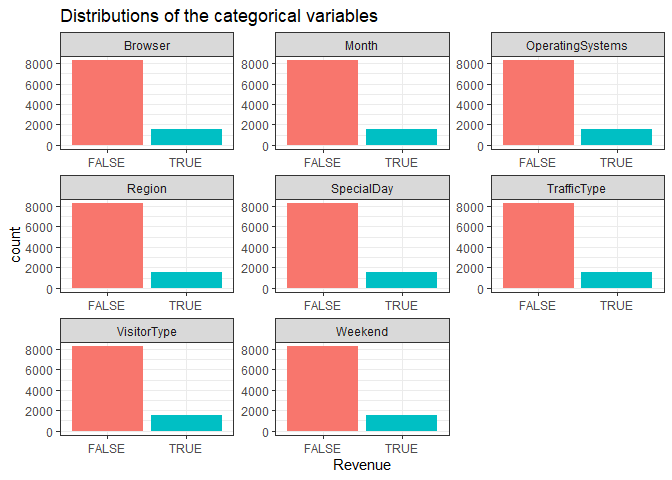
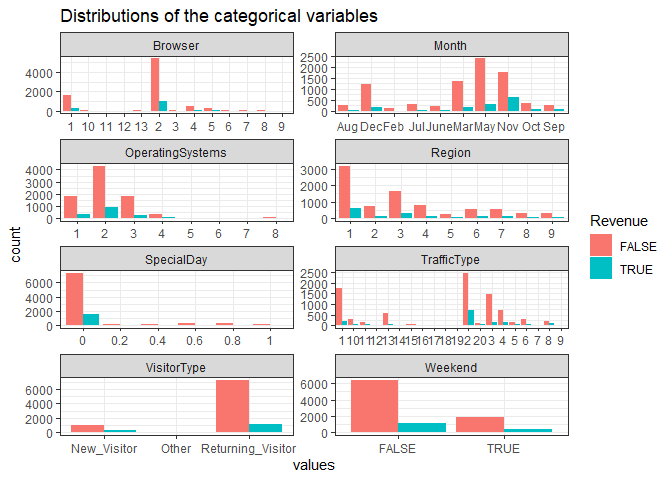
fixed the bug in the last plot and changed to show the code

diff --git a/src/EDA.md b/src/EDA.md
@@ -32,17 +32,77 @@ purchase.
 | 17    | `Weekend`                 | Weekend indicator                                                                                                                                                                    |
 | 18    | `Revenue`                 | Revenue transaction indicator                                                                                                                                                        |
 
+``` r
+X_train <- suppressMessages(read_csv("../data/X_train.csv"))
+y_train <- suppressMessages(read_csv("../data/y_train.csv"))
+
+mydata <- cbind(X_train, y_train)
+setDT(mydata)
+
+num_vars_1 <- c("Administrative", "Informational", "ProductRelated")
+num_vars_2 <- c("Administrative_Duration", "Informational_Duration", "ProductRelated_Duration", 
+                "BounceRates", "ExitRates", 
+                "PageValues", "ProductRelated")
+target <- "Revenue"
+cat_vars <- setdiff(names(mydata), c(num_vars_1, num_vars_2, target))
+
+x <- sapply(mydata, function(x) sum(is.na(x)))
+col_na <- names(x[x>0])
+
+if (is_empty(col_na)){
+  print("There is no missing value in this data set.")
+} else{
+  print(paste("Variables with NA values:", col_na))
+}
+```
+
     ## [1] "There is no missing value in this data set."
 
-![](EDA_files/figure-gfm/loading%20the%20data-1.png)<!-- -->![](EDA_files/figure-gfm/loading%20the%20data-2.png)<!-- -->
+``` r
+plot_1 <- ggplot(mydata, aes(Administrative)) + 
+  geom_histogram(binwidth = 1, color = 'white') +
+  labs(
+    title = "Histograms"
+  ) + 
+  theme_bw()
+plot_2 <- ggplot(mydata, aes(Informational)) + 
+  geom_histogram(binwidth = 1, color = 'white') +
+  labs(
+    title = " "
+  ) + theme_bw()
+plot_3 <- mydata %>% 
+  ggplot(aes(x = ProductRelated, y = stat(count) / sum(count), color=Revenue)) + 
+  geom_freqpoly(binwidth = 1) + 
+  scale_y_continuous(labels = scales::percent) +
+  labs(
+    title = "Frequency polygons of ProductRelated"
+  ) + theme_bw()
+options(repr.plot.width = 30, repr.plot.height = 6)
+plot_grid(plot_1, plot_2, nrow=1)
+```
+
+![](EDA_files/figure-gfm/loading%20the%20data-1.png)<!-- -->
+
+``` r
+plot_3
+```
+
+![](EDA_files/figure-gfm/loading%20the%20data-2.png)<!-- -->
 
 > There are over 700 classes in the ProductRelated feature, it is
 > possible to treat this feature as categorical or numerical feature.
 > This needs to be decided during the model and feature selection step
-> of this
-    project.
+> of this project.
 
 ## Summary of Numeric Variables
+
+``` r
+quantile_dist <- sapply(num_vars_2, FUN=function(x) {
+  print(paste("Mean of", x, "is", round(mydata[, mean(get(x))], digits=3), 
+              "and standard deviation is", round(mydata[, sd(get(x))], digits=3)))
+  mydata[, round(quantile(get(x), probs=seq(0,1,0.05)), digits=3)]
+})
+```
 
     ## [1] "Mean of Administrative_Duration is 82.436 and standard deviation is 179.302"
     ## [1] "Mean of Informational_Duration is 34.623 and standard deviation is 141.693"
@@ -51,6 +111,10 @@ purchase.
     ## [1] "Mean of ExitRates is 0.043 and standard deviation is 0.049"
     ## [1] "Mean of PageValues is 5.997 and standard deviation is 18.64"
     ## [1] "Mean of ProductRelated is 31.82 and standard deviation is 44.681"
+
+``` r
+print(quantile_dist)
+```
 
     ##      Administrative_Duration Informational_Duration ProductRelated_Duration
     ## 0%                     0.000                  0.000                   0.000
@@ -98,6 +162,14 @@ purchase.
     ## 100%       0.200     0.200    361.764            705
 
 ## Percentage of rows for categories of categorical variables
+
+``` r
+# Percentage of rows for categories of categorical variables
+
+sapply(c(cat_vars, target), FUN=function(x) {
+  round(mydata[, table(get(x))]/nrow(mydata), digits=3)*100
+})
+```
 
     ## $SpecialDay
     ## 
@@ -148,4 +220,32 @@ purchase.
 
 ## Target vs Other Variables
 
-![](EDA_files/figure-gfm/Target%20vs%20Other%20Variables-1.png)<!-- -->![](EDA_files/figure-gfm/Target%20vs%20Other%20Variables-2.png)<!-- -->
+``` r
+mydata %>% 
+  select(num_vars_2, Revenue) %>% 
+  gather("num_vars", "values", -Revenue) %>% 
+  ggplot(aes(y=values, x=Revenue)) +
+  geom_violin(mapping = aes(fill = Revenue),  show.legend = FALSE) +
+  facet_wrap(~num_vars, scales = "free", nrow = 3) +
+  labs(
+    title = "Distributions of the numerical variables"
+  ) + 
+  theme_bw()
+```
+
+![](EDA_files/figure-gfm/Target%20vs%20Other%20Variables-1.png)<!-- -->
+
+``` r
+mydata %>% 
+  select(cat_vars, Revenue) %>% 
+  gather("num_vars", "values", -Revenue) %>% 
+  ggplot(aes(x=values, fill=Revenue)) +
+  geom_bar(stat = "count", position = "dodge") +
+  facet_wrap(~num_vars, scales  ="free", nrow = 4) +
+  labs(
+    title = "Distributions of the categorical variables"
+  ) + 
+  theme_bw()
+```
+
+![](EDA_files/figure-gfm/Target%20vs%20Other%20Variables-2.png)<!-- -->
